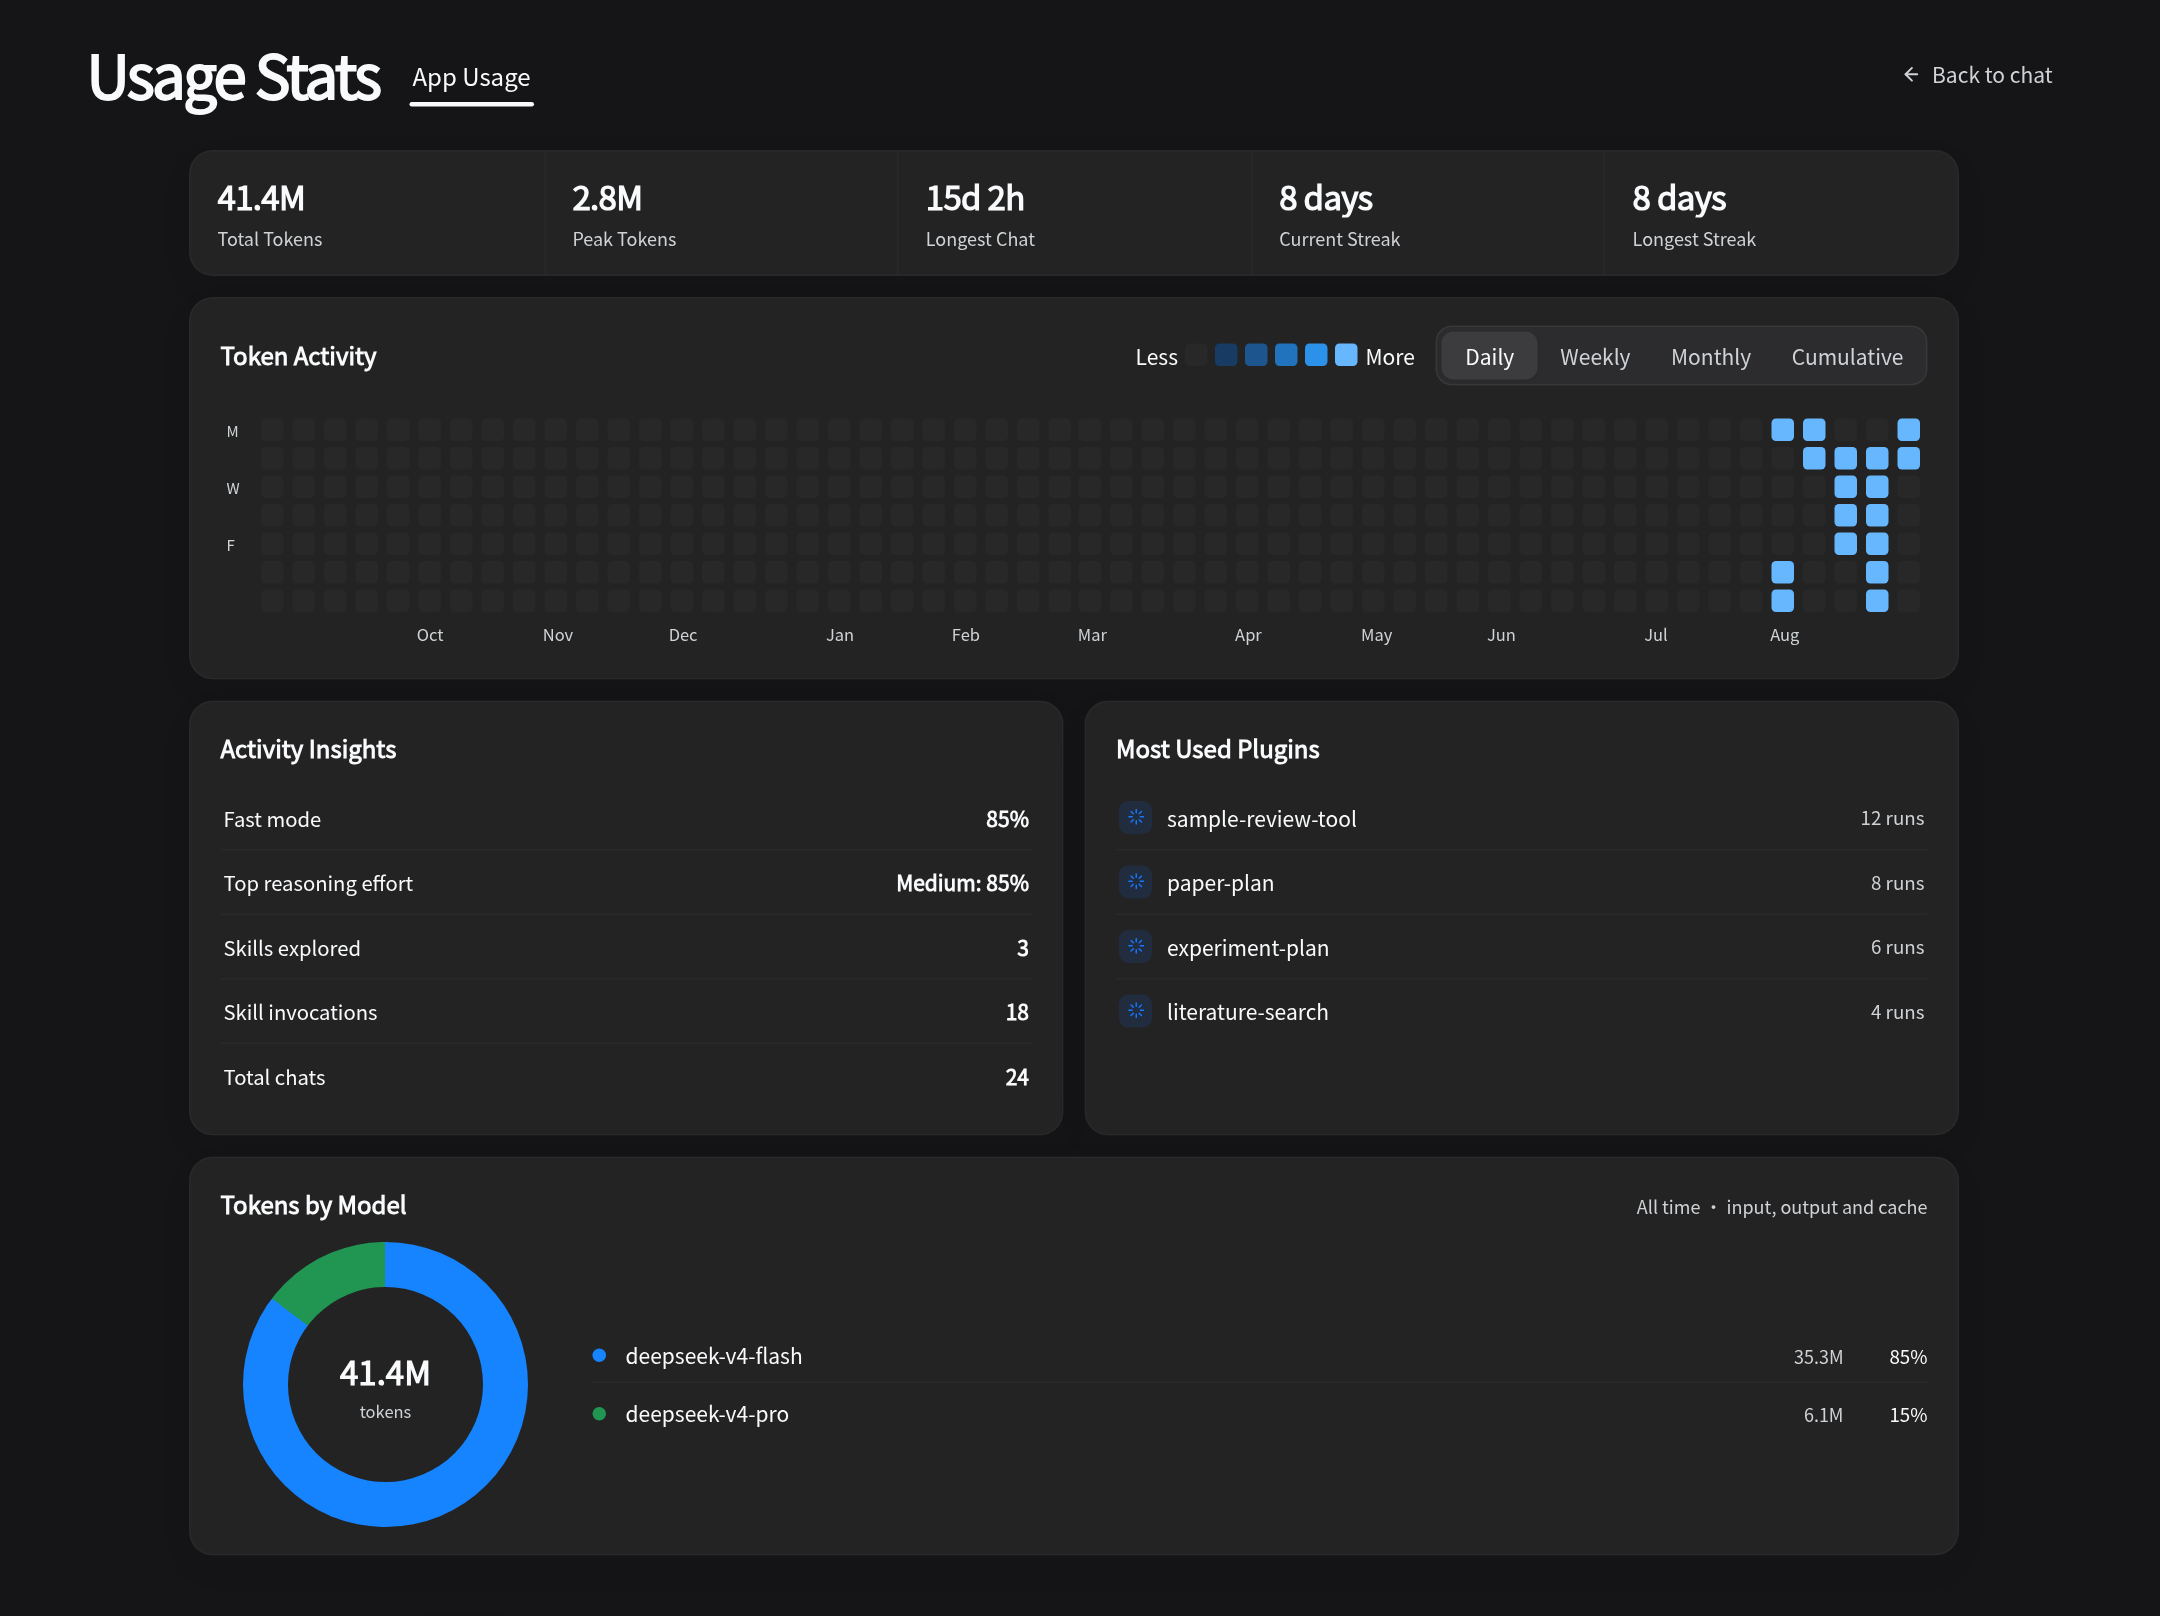
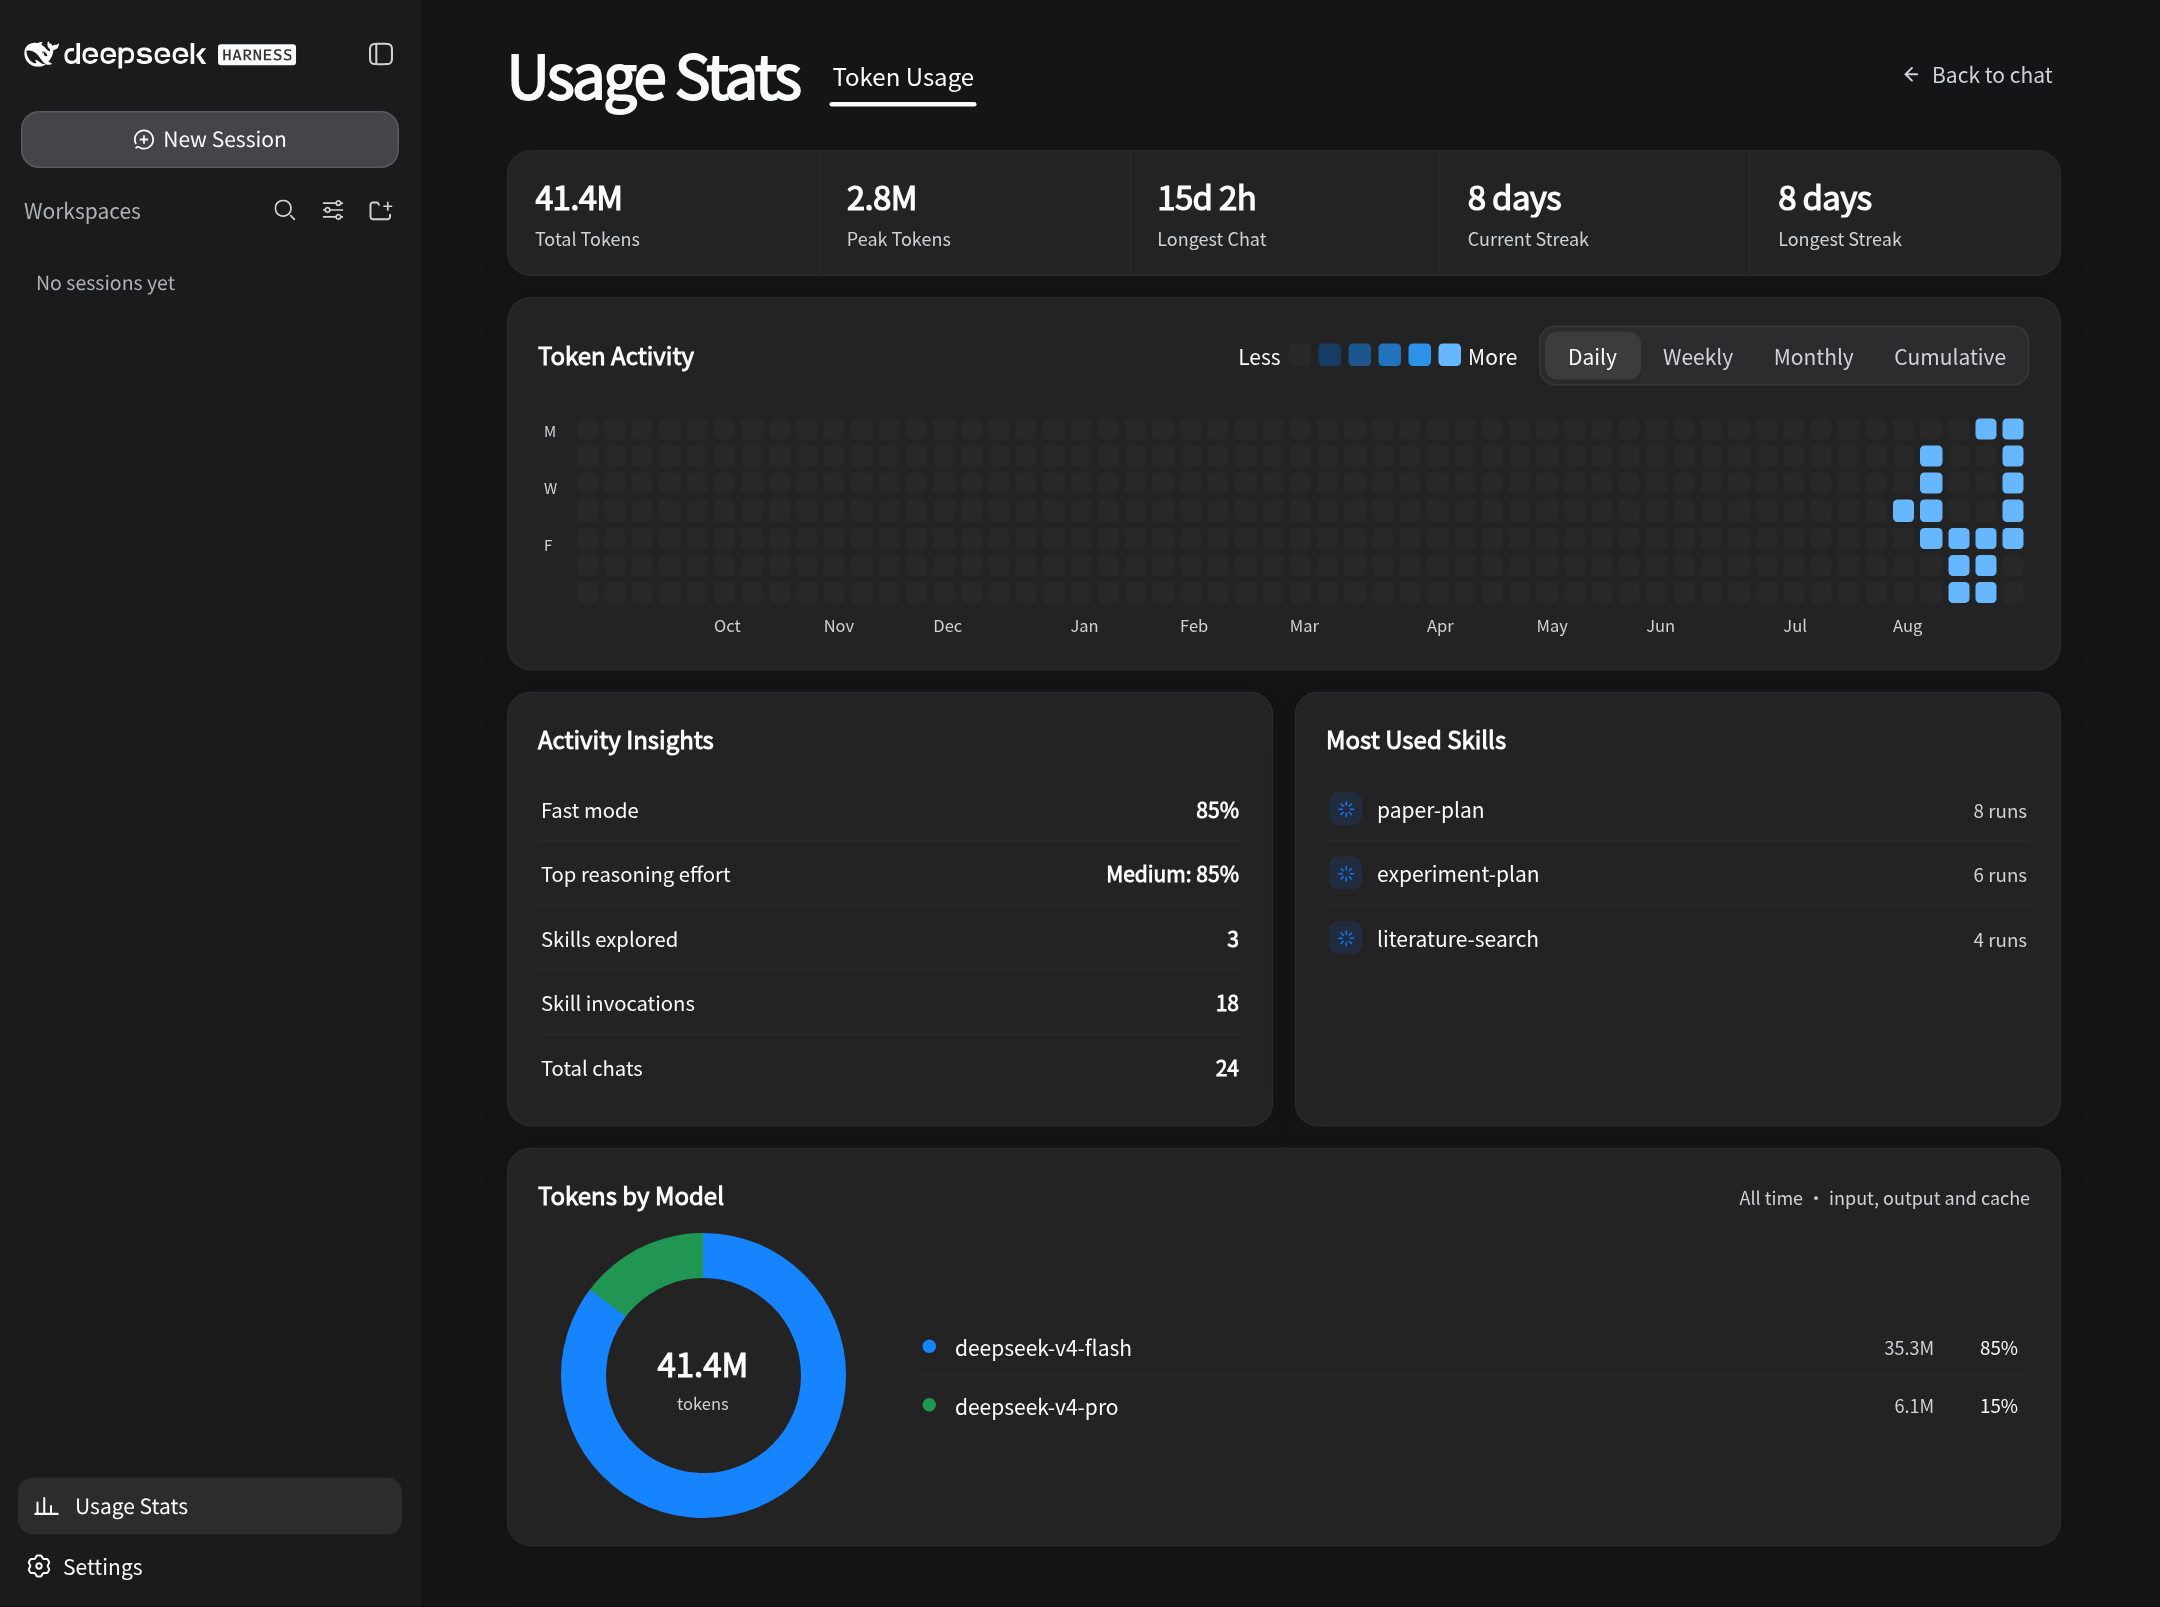
fix(client): rename camelCase dataset attr missed by sed rebrand; refresh demo assets
The rebrand sed only matched hyphenated strings, so the panel container
kept setting dataset.dshUsageStatsView (data-dsh-usage-stats-view) while
the stylesheet looked for [data-dsh-token-usage-board-view] — the panel
mounted but was invisible (and the sibling-hiding rule blanked the whole
center column). Fix the dataset property, and re-capture the demo GIF
and light/dark screenshots against the current UI (the old assets were
recorded for the pre-rebrand design).

Also: add a CAPTURE_DEBUG diagnostics block to the verify script and
use neutral /home/demo workspace paths in the seeded demo data.

diff --git a/src/client/index.tsx b/src/client/index.tsx
@@ -496,7 +496,7 @@ function mountPanel(controller: PanelController): () => void {
     const column = document.querySelector<HTMLElement>(CONVERSATION_COLUMN_SELECTOR)
     if (column === null) return
     container = document.createElement('div')
-    container.dataset.dshUsageStatsView = ''
+    container.dataset.dshTokenUsageBoardView = ''
     container.dataset.dshPlugin = 'token-usage-board'
     column.appendChild(container)
     root = createRoot(container)
